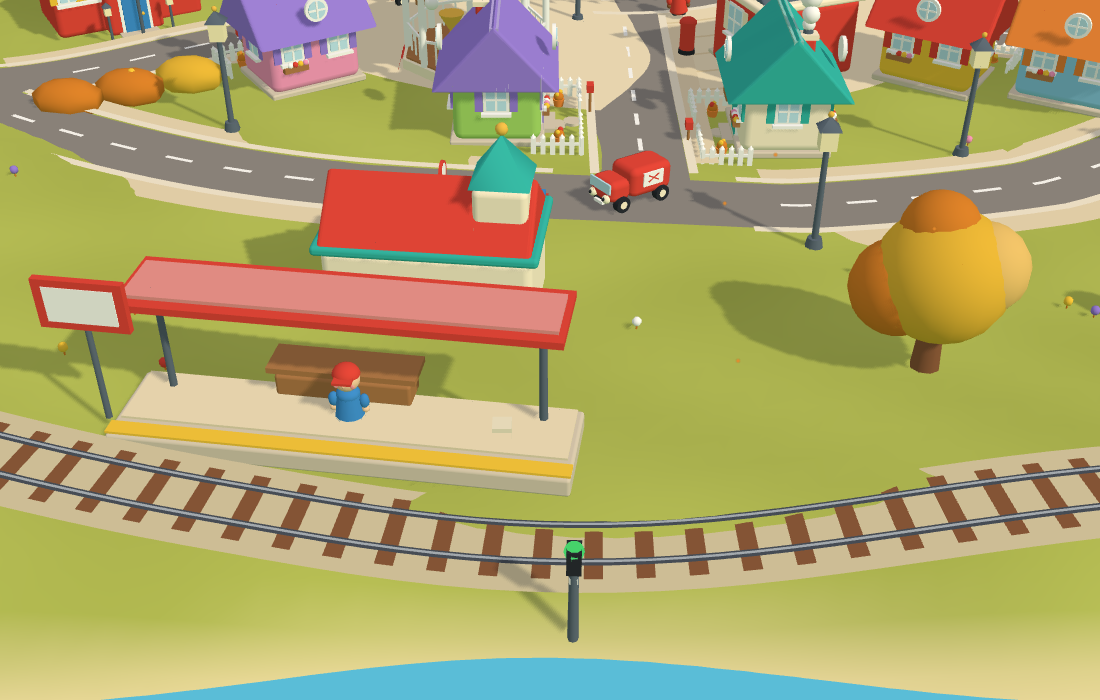
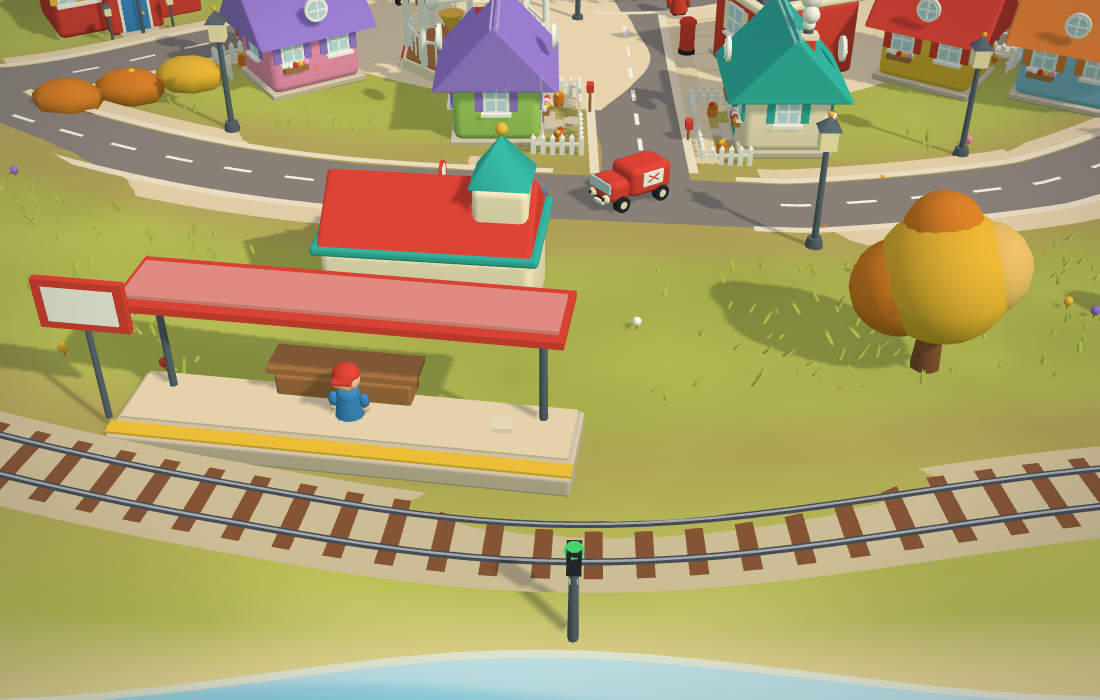
New Toy Town: picture quality tiers and a richer, more natural look (water, wind, ground, light) (#229)
* Toy Town: a still camera you can drag, no more auto-zoom

The camera no longer zooms and glides to each event, which was
distracting. It holds the town still; a drag looks around (useful on
phones) and a tap still pokes the town.

Claude-Session: https://claude.ai/code/session_016DDzLFPb4BuxMAThu2pji2

* Toy Town: soft clay look, and the day's headlines in town

Everything is drawn soft: gradient faces with rounded bevelled edges,
soft contact shadows, shaded swaying trees, rounded people and wheels.
The real headlines are in town: a Toy Town Times board, a newspaper
seller calling Extra!, the ticker repeating them, and banners over
each news scene with the story's own name (GO INDIA!, HAPPY DIWALI!,
ARTEMIS III) that fans also carry on signs.

Claude-Session: https://claude.ai/code/session_016DDzLFPb4BuxMAThu2pji2

* Toy Town: a rooftop billboard, and a town living the day's news

The Toy Town Times is now a billboard on a building's roof instead of
standing over the road. The news shows the way a real town would: a
plane towing the headline, neighbours chatting about the story by name,
newspaper kiosks on free corners, bunting over the streets on match,
festival, election and premiere days, buses headed for the STADIUM or
the FESTIVAL, and windows flickering blue with the telly at night.

Claude-Session: https://claude.ai/code/session_016DDzLFPb4BuxMAThu2pji2

* Toy Town: the billboard moves to the town's corner
[…]

diff --git a/toy-town-new.html b/toy-town-new.html
@@ -63,25 +63,29 @@ html.ui-off #set,html.ui-off #panel{display:none}
 #panel .seg button{min-height:44px}
 #seasons a{display:inline-block;min-width:30px;min-height:30px;line-height:30px;text-align:center;margin-left:2px}
 }
+#grade{position:fixed;inset:0;pointer-events:none;opacity:0;transition:opacity .6s;background:radial-gradient(ellipse at 50% 46%,rgba(0,0,0,0) 58%,rgba(20,24,44,.2) 100%),linear-gradient(var(--tint,transparent),var(--tint,transparent))}
+#dbg{position:fixed;left:calc(8px + env(safe-area-inset-left,0px));bottom:calc(8px + env(safe-area-inset-bottom,0px));padding:3px 8px;border-radius:8px;background:rgba(0,0,0,.6);color:#fff;font:600 11px/1.3 ui-monospace,Menlo,Consolas,monospace;pointer-events:none;z-index:9}
 html.ui-off #jobs,html.ui-off #toast,html.ui-off #snd,html.ui-off #chip,html.ui-off #hint,html.ui-off #story,html.ui-off #card{display:none}
 </style>
-<script type="importmap" data-stamp="f2690f2891">
+<script type="importmap" data-stamp="53e463f300">
 {"imports":{
   "three":"https://cdn.jsdelivr.net/npm/three@0.187.0/build/three.module.js",
   "three/addons/":"https://cdn.jsdelivr.net/npm/three@0.187.0/examples/jsm/",
-  "./assets/town2/build.mjs":"./assets/town2/build.mjs?v=f2690f2891",
-  "./assets/town2/curve.mjs":"./assets/town2/curve.mjs?v=f2690f2891",
-  "./assets/town2/def.mjs":"./assets/town2/def.mjs?v=f2690f2891",
-  "./assets/town2/graph.mjs":"./assets/town2/graph.mjs?v=f2690f2891",
-  "./assets/town2/inspect.mjs":"./assets/town2/inspect.mjs?v=f2690f2891",
-  "./assets/town2/needs.mjs":"./assets/town2/needs.mjs?v=f2690f2891",
-  "./assets/town2/settings.mjs":"./assets/town2/settings.mjs?v=f2690f2891",
-  "./assets/town2/sim.mjs":"./assets/town2/sim.mjs?v=f2690f2891",
-  "./assets/town2/sky.mjs":"./assets/town2/sky.mjs?v=f2690f2891",
-  "./assets/town2/smoke.mjs":"./assets/town2/smoke.mjs?v=f2690f2891",
-  "./assets/town2/sound.mjs":"./assets/town2/sound.mjs?v=f2690f2891",
-  "./assets/town2/stories.mjs":"./assets/town2/stories.mjs?v=f2690f2891",
-  "./assets/town2/weather.mjs":"./assets/town2/weather.mjs?v=f2690f2891"
+  "./assets/town2/build.mjs":"./assets/town2/build.mjs?v=53e463f300",
+  "./assets/town2/curve.mjs":"./assets/town2/curve.mjs?v=53e463f300",
+  "./assets/town2/def.mjs":"./assets/town2/def.mjs?v=53e463f300",
+  "./assets/town2/graph.mjs":"./assets/town2/graph.mjs?v=53e463f300",
+  "./assets/town2/inspect.mjs":"./assets/town2/inspect.mjs?v=53e463f300",
+  "./assets/town2/nature.mjs":"./assets/town2/nature.mjs?v=53e463f300",
+  "./assets/town2/needs.mjs":"./assets/town2/needs.mjs?v=53e463f300",
+  "./assets/town2/quality.mjs":"./assets/town2/quality.mjs?v=53e463f300",
+  "./assets/town2/settings.mjs":"./assets/town2/settings.mjs?v=53e463f300",
+  "./assets/town2/sim.mjs":"./assets/town2/sim.mjs?v=53e463f300",
+  "./assets/town2/sky.mjs":"./assets/town2/sky.mjs?v=53e463f300",
+  "./assets/town2/smoke.mjs":"./assets/town2/smoke.mjs?v=53e463f300",
+  "./assets/town2/sound.mjs":"./assets/town2/sound.mjs?v=53e463f300",
+  "./assets/town2/stories.mjs":"./assets/town2/stories.mjs?v=53e463f300",
+  "./assets/town2/weather.mjs":"./assets/town2/weather.mjs?v=53e463f300"
 }}
 </script>
 </head>
@@ -90,7 +94,8 @@ html.ui-off #jobs,html.ui-off #toast,html.ui-off #snd,html.ui-off #chip,html.ui-
 <div id="chip">Toy Town<span class="long"> · new build preview</span><a href="toy-town.html">current town</a><span id="seasons"></span></div>
 <button id="snd" aria-label="Sound" aria-pressed="false" title="Sound off">🔇</button>
 <button id="set" aria-label="Settings" aria-expanded="false" title="Pace and balance">⚙</button>
-<div id="panel" role="group" aria-label="Pace and balance"><b>Speed of the day</b><div class="seg" data-key="speed"><button data-v="0.5">½×</button><button data-v="1">1×</button><button data-v="2">2×</button><button data-v="4">4×</button></div><b>How much work for the train</b><div class="seg" data-key="busy"><button data-v="quiet">Quiet</button><button data-v="normal">Normal</button><button data-v="busy">Busy</button></div><b>Stories from today's news</b><div class="seg" data-key="news"><button data-v="true">On</button><button data-v="false">Off</button></div></div>
+<div id="panel" role="group" aria-label="Pace and balance"><b>Speed of the day</b><div class="seg" data-key="speed"><button data-v="0.5">½×</button><button data-v="1">1×</button><button data-v="2">2×</button><button data-v="4">4×</button></div><b>How much work for the train</b><div class="seg" data-key="busy"><button data-v="quiet">Quiet</button><button data-v="normal">Normal</button><button data-v="busy">Busy</button></div><b>Highlight what I tap</b><div class="seg" data-key="highlight"><button data-v="pin">Pin</button><button data-v="ring">Ring</button><button data-v="off">None</button></div><b>Picture quality</b><div class="seg" data-key="quality"><button data-v="auto">Auto</button><button data-v="low">Low</button><button data-v="medium">Med</button><button data-v="high">High</button></div><b>Stories from today's news</b><div class="seg" data-key="news"><button data-v="true">On</button><button data-v="false">Off</button></div></div>
+<div id="grade" aria-hidden="true"></div>
 <div id="story" aria-live="polite"></div>
 <div id="card" aria-live="polite"><button aria-label="Close">×</button><b></b><div></div><button id="send" hidden>Send a parcel from here…</button></div>
 <div id="jobs" title="Tap to open or close"></div>
@@ -99,7 +104,7 @@ html.ui-off #jobs,html.ui-off #toast,html.ui-off #snd,html.ui-off #chip,html.ui-
 <div id="fail"><div>The new town could not start.<br><a href="toy-town.html">Open the current town</a>, or try a hard refresh (Ctrl+F5).<br><small id="why"></small><br><small>If it mentions WebGL, turn on hardware acceleration in the browser's settings (in Edge: edge://settings/system).</small></div></div>
 <script>if(/[?&]clean=1\b/.test(location.search))document.documentElement.classList.add('ui-off');</script>
 <script type="module">
-  import('./assets/town2/main.mjs?v=f2690f2891').catch(e => { console.error(e); document.getElementById('why').textContent = (e && (e.name + ': ' + e.message)) || String(e); document.getElementById('fail').style.display = 'flex'; });
+  import('./assets/town2/main.mjs?v=53e463f300').catch(e => { console.error(e); document.getElementById('why').textContent = (e && (e.name + ': ' + e.message)) || String(e); document.getElementById('fail').style.display = 'flex'; });
 </script>
 </body>
 </html>

diff --git a/README.md b/README.md
@@ -118,7 +118,7 @@ People no longer walk on the river: every walking leg (events, gatherings, whims
 
 **Faster, same picture.** A profile of the merged city showed about 6,800 draw calls and 3.4 M triangles per frame. The static batcher now bakes plain painted colours into vertex colours (one shared material per surface finish), residents, cars and bicycles merge their plainly painted pieces inside each rigid node, and the sphere/capsule geometry used for people is trimmed (they are 20–60 px tall). Result: about 4,700 draw calls and 2.6 M triangles at the default view with a pixel-identical render (mean difference 0.05/255 against master). The simulation shares one per-frame snapshot of cars and walkers in the carriageway instead of rescanning every mover for every car (1.7 → 0.9 ms per simulated frame).
 
-**A new storybook town (preview).** `toy-town-new.html` (or `toy-town.html?town=new`) is a rebuild in a toy-box style: a roundabout square with a clock tower, a teapot café, a toy shop with a spinning top, a loaf-shaped bakery, a bandstand, a post office, a fire station, a round kiosk, a mushroom cottage and seventeen cottages, a school, a farm and barn, a garage, a harbour hut on a pier and a windmill on its hill. Eight streets run out from the square to a ring road like the spokes of a wheel, and a railway loops round the whole town with a four-car train that stops at four stations, carries commuters and a wagon of mail, milk, bread and parcels you send yourself (tap a building, press send, tap where it should go; a work board shows what is on the move), a market that opens every third day, station signals with a bell, and residents who get hungry, tired and lonely and go and do something about it; a gear button sets the speed of the day and how much work the train gets. Twenty-six named residents go door to door on the pavements by the hour (and sleep at night), keep to their own side and stop to say hello; two buses, taxis, a post van, a milk float, a tractor, an ice-cream van and an on-call fire engine travel the lanes, keeping gaps and taking turns at junctions. The day turns from dawn through dusk to a lit-window night with three lamplighters lighting the street lamps, it rains with umbrellas up and puddles, there are four seasons, two dozen small stories (some staged by the day's light headlines), you can tap anyone or anything to see what they are up to and follow them, a speaker button turns on synthesised wind, birds, crickets, rain and the clock striking, and the render resolution adapts on slow phones. The whole static town is one mesh (about 65 draw calls, 490 k triangles). The current town stays the default; `TOY_TOWN_NEW_SPEC.md` is the spec and what is still open (real-phone measurement, the switch).
+**A new storybook town (preview).** `toy-town-new.html` (or `toy-town.html?town=new`) is a rebuild in a toy-box style: a roundabout square with a clock tower, a teapot café, a toy shop with a spinning top, a loaf-shaped bakery, a bandstand, a post office, a fire station, a round kiosk, a mushroom cottage and seventeen cottages, a school, a farm and barn, a garage, a harbour hut on a pier and a windmill on its hill. Eight streets run out from the square to a ring road like the spokes of a wheel, and a railway loops round the whole town with a four-car train that stops at four stations, carries commuters and a wagon of mail, milk, bread and parcels you send yourself (tap a building, press send, tap where it should go; a work board shows what is on the move), a market that opens every third day, station signals with a bell, and residents who get hungry, tired and lonely and go and do something about it; a gear button sets the speed of the day, how much work the train gets and the picture quality; the sea moves with foam on the shore, trees and grass sway in a breeze and the sky shades to a warm glow at dawn and dusk (and adapts to slow devices; `?debug=1` shows what the picture costs). Twenty-six named residents go door to door on the pavements by the hour (and sleep at night), keep to their own side and stop to say hello; two buses, taxis, a post van, a milk float, a tractor, an ice-cream van and an on-call fire engine travel the lanes, keeping gaps and taking turns at junctions. The day turns from dawn through dusk to a lit-window night with three lamplighters lighting the street lamps, it rains with umbrellas up and puddles, there are four seasons, two dozen small stories (some staged by the day's light headlines), you can tap anyone or anything to see what they are up to and follow them, a speaker button turns on synthesised wind, birds, crickets, rain and the clock striking, and the render resolution adapts on slow phones. The whole static town is one mesh (about 65 draw calls, 490 k triangles). The current town stays the default; `TOY_TOWN_NEW_SPEC.md` is the spec and what is still open (real-phone measurement, the switch).
 
 **Resident level of detail.** Plain residents have a second, far figure of three small meshes (body and two legs, about 350 triangles instead of about 10 000, built from the same colours; the legs still swing). Each resident is switched by its projected height on screen (far under 46 px, back to the full rig over 62 px), by one central pass over a registry, so it covers actors, ambient walkers and the city's people. At the default view 88 of 95 residents are far: draw calls 4,462 → 3,062 and triangles 2.56 M → 1.90 M, and close-ups still use the full rig. Residents with a kind, a trade, a briefcase or a hero route never switch.
 

diff --git a/TOY_TOWN_NEW_SPEC.md b/TOY_TOWN_NEW_SPEC.md
@@ -150,6 +150,13 @@ the stamp is stale. If the page cannot start, its panel now shows the real error
 - **Settings** (gear button, `settings.mjs`, remembered in `localStorage`, bad or blocked storage falls back to defaults): speed of the day (0.5, 1, 2, 4; a frame takes up to 10 steps of at most 50 ms), work for the train (`sim.setBusy`: quiet 0.4, normal 1, busy 2 times as many jobs) and whether the news stages stories.
 - **Needs and moods** (`needs.mjs`): hunger, tiredness and loneliness run 0 to 1. Hunger rises over 12 waking hours, tiredness over 15, loneliness over 10 when alone; sleep rests; a bite at the bakery, cafe or market and company at the cafe, market, school, bandstand, toy shop or post office bring them down; a hello on the pavement eases loneliness. A need above its threshold (hunger over .75, loneliness over .85) sends an idle resident to the nearest food or company (`sim.needsStats`); hunger over .9 breaks a wait. `r.mood = {score, label, why}` (cheerful, content, grumpy, hungry, tired, lonely) shows in the card; the work board shows the town's mood.
 
+### Picture quality and the natural look (quality.mjs, nature.mjs, build.mjs shaders; tested)
+
+- **Tiers** `low`, `medium`, `high` (`quality.PROFILE`): water waves, shore foam, wind sway, grass tufts (0, 900, 2200), sky glow and the colour grade. A phone starts on `medium`, everything else on `high`. `?quality=low|medium|high` (or the Picture quality row in the settings) fixes a tier; otherwise a governor takes the average frame time every 2 s, goes a tier down after two slow samples (over 45 ms), a tier up after five fast ones (under 20 ms, and only when the resolution is at its maximum), and caps a tier it just left for a couple of minutes. The render resolution only goes down once the lowest tier is reached. `?debug=1` shows fps, ms, draw calls, triangles, resolution and tier.
+- **Wind** (`nature.wind(t)`): one slowly swelling and veering breeze. Foliage (round trees, pines, bushes) has a per-vertex `sway` weight and leans in the vertex shader (`windify`); the grass tufts lean in their own shader; smoke and petals drift with it. `prefers-reduced-motion` cuts the sway to 30 percent.
+- **Water**: the sea plane has slow swells and soft glints in the fragment shader (`waterify`); the shallows band (a ring from the waterline out to 1.35 of the island radius, alpha fading) carries the shore foam, a second pulsing ring and the wave tint.
+- **Ground and light**: lawn colour has big soft patches (lighter, darker, dry yellowish) and bare soil beside the pavements (a grid of road points answers "how far to a road"); walls and undersides are shaded darker near the ground when the mesh is built (no run-time cost); the sky is a gradient dome (haze colour at the horizon, deeper blue above) with a glow round a low sun; a CSS overlay gives the vignette and a warm dawn and dusk or cool night tint (high tier only).
+
 ## 5. Art rules
 
 - Fat, rounded, slightly wonky. No sharp corners: `bag.box` is a rounded box; roofs overhang.
@@ -180,6 +187,7 @@ spheres 8; keep that discipline (the first version was 1.05 M triangles from 3-s
 - `sim`, `scene`, `camera`, `renderer`, `view`
 - `info()` → `{calls, triangles, residentsOut, clock, pixelRatio, story, rain, wet, lampsLit, season}`
 - `tapAt(clientX, clientY)`, `selected()`, `select(obj|null)`, `project(x, z, y)` → client coordinates of a ground point
+- `tier()`, `gov` (the governor), `setQuality(tier|'auto')`, `tufts`, `U` (shader inputs); `?quality=` and `?debug=1`
 - `settings`, `applySettings()`; `info()` also has `market, marketVisits`
 - `trainPos()` (head of the train), `sendParcel(from, to)`, `jobsText()` (the work board text); `info()` also has `delivered, cargoNow, riders`
 - `season`, `sound` (`enabled`, `started`, `toggle()`); `?season=spring|summer|autumn|winter`

diff --git a/TOY_TOWN_COLLAB.md b/TOY_TOWN_COLLAB.md
@@ -1208,3 +1208,16 @@ A `START` does not prohibit parallel edits. Avoid stepping on each other's uncom
 - **Tests changed because the cast now behaves differently**: the commuter count is at least 4 trips by 2 people over three days, the lamplighter's step limit is .13 in the rain, and the logic tests gained market, signal, smoke, bell, settings and needs checks.
 - **Not verified**: a real phone and Edge; whether the market spot (on a street rather than in the square, which has no room left) is where the owner wants it; the mood thresholds are my guesses.
 
+### 2026-11-10 · Claude · DONE (new storybook town, follow-up 8: picture quality tiers, then a richer and more natural look)
+- **Request (owner)**: "richer and natural graphics: start with step 1 and 2" (step 1 quality tiers and a debug readout, step 2 water, wind, ground, light).
+- **Step 1**: tiers low, medium, high (`quality.mjs`), a governor that moves between them from measured frame time and only lowers the render resolution once the lowest tier is reached, `?quality=` and a Picture quality row in the settings, and `?debug=1` (fps, ms, draw calls, triangles, resolution, tier). Please read me those numbers from a real phone: that is the missing measurement.
+- **Step 2**: sea with swells, glints and shore foam; foliage and grass in a wind (vertex shaders, one wind for the whole town, smoke and petals follow it); lawn patches, dry spots and soil beside pavements; 2,200 grass tufts on high; baked shading near the ground; a gradient sky with a glow round a low sun; a vignette and warm or cool tint. Budgets: about 76 draw calls and 537 k triangles (shadow pass counted) at high.
+- **A bug I found while doing it**: the shallows band added in follow-up 6 was wound facing down, so it was culled and never drawn: that release's "shallows" were not visible. They are now, with foam.
+- **Tests**: tier profile ordering and start tiers, the governor (down after two slow samples, up after five fast, cap and its decay, no up while the resolution is held down, a fixed tier stays), the wind (swells, never dead, never roars), settings quality key; visual: low has no tufts, wind or waves, high has them, the debug readout, a phone starts on medium, draw calls in budget.
+- **Not verified**: real devices (all numbers are headless software GL); the look of sway in motion (I judged still frames; the shader is simple); tuning of the foam and tuft density by the owner's eye.
+
+### 2026-11-10 · Claude · DONE (new storybook town, follow-up 9: a different highlight than the ring)
+- **Request (owner)**: the yellow ring on the ground under everything you tap is annoying; use another highlighting mechanism.
+- **Change**: tapping now shows a small bobbing pin (a yellow cone with a white ball) above what you tapped, scaled with the zoom, at a height for the kind of thing (people, vehicles, animals, the train, and per building type so it clears roofs, the clock tower and the windmill). A "Highlight what I tap" row in the settings offers Pin (default), Ring (the old one) and None; it is remembered. The card and the camera follow are unchanged.
+- **Tests**: the default is the pin, bad values fall back to it, and the visual test checks that a tap shows the pin and not the ring. **Not verified**: how the pin looks to the owner on a phone (size and height are my guesses).
+
